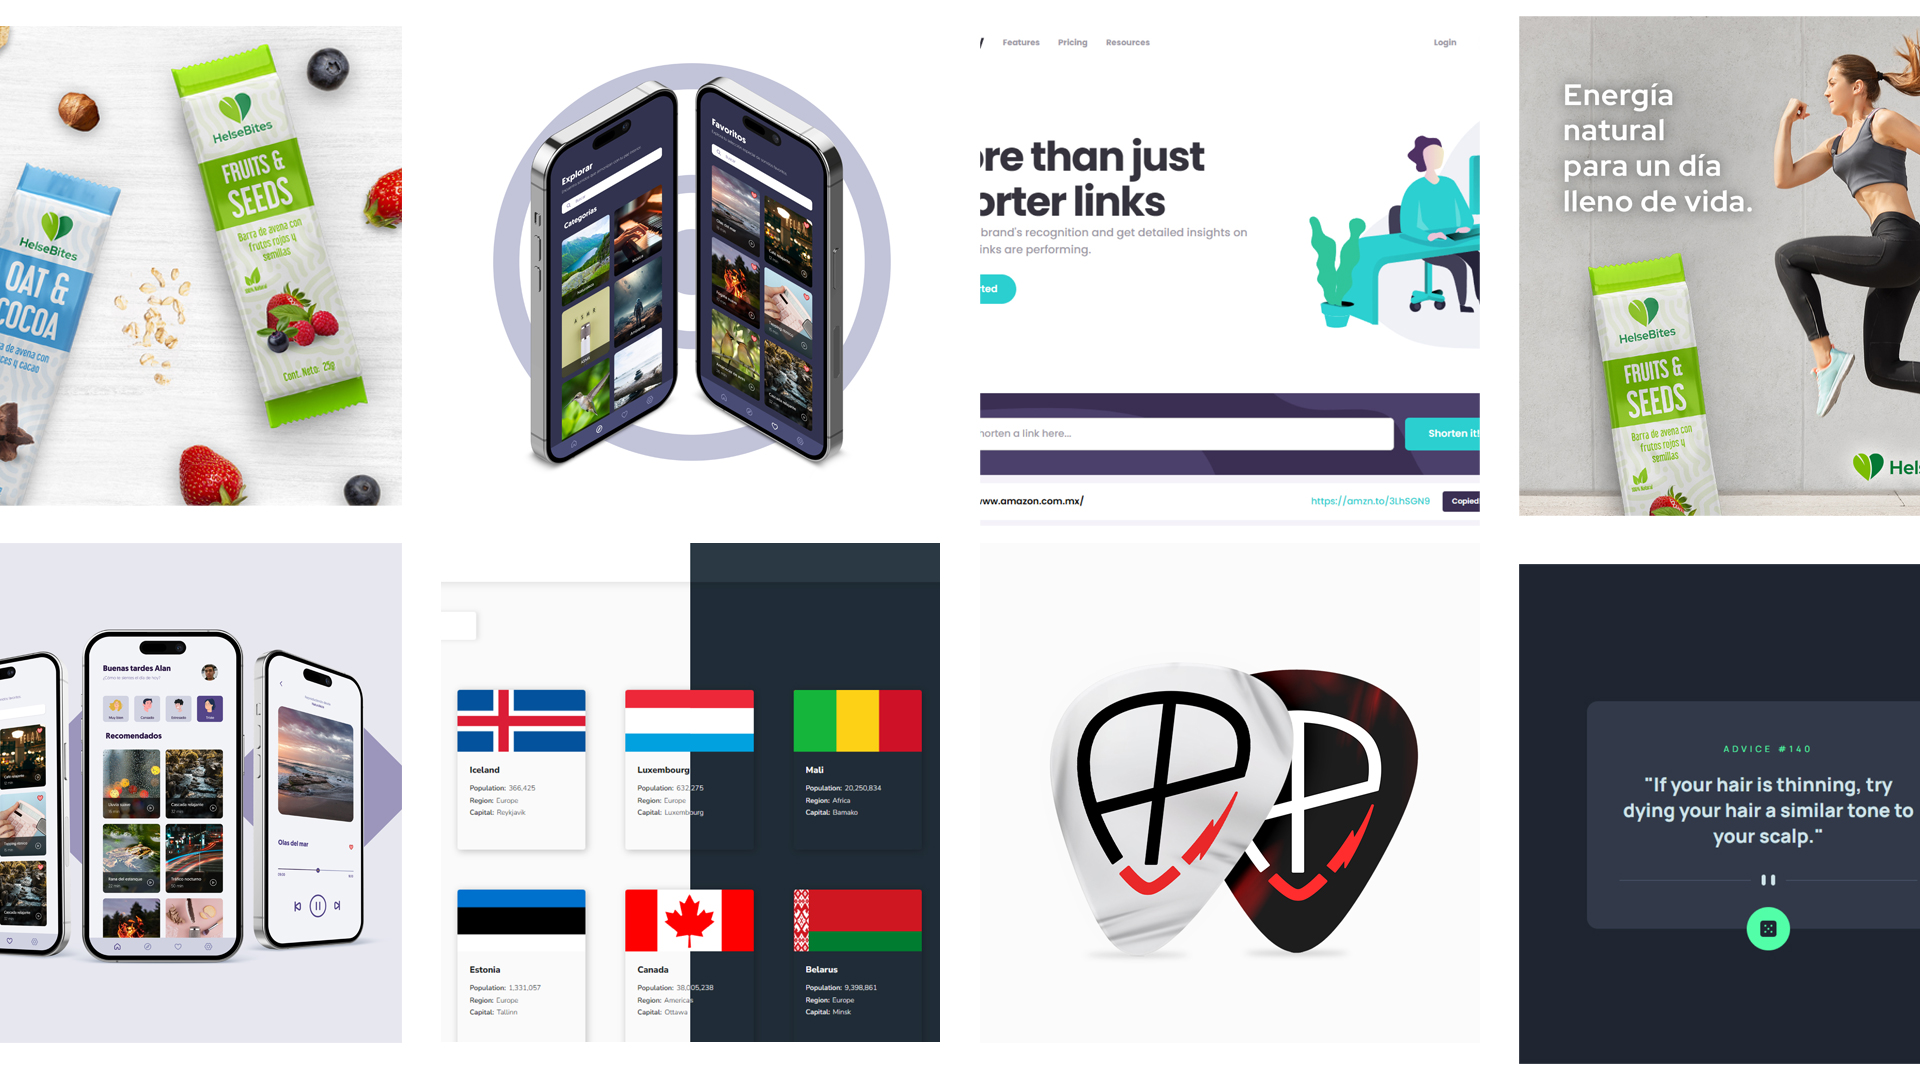
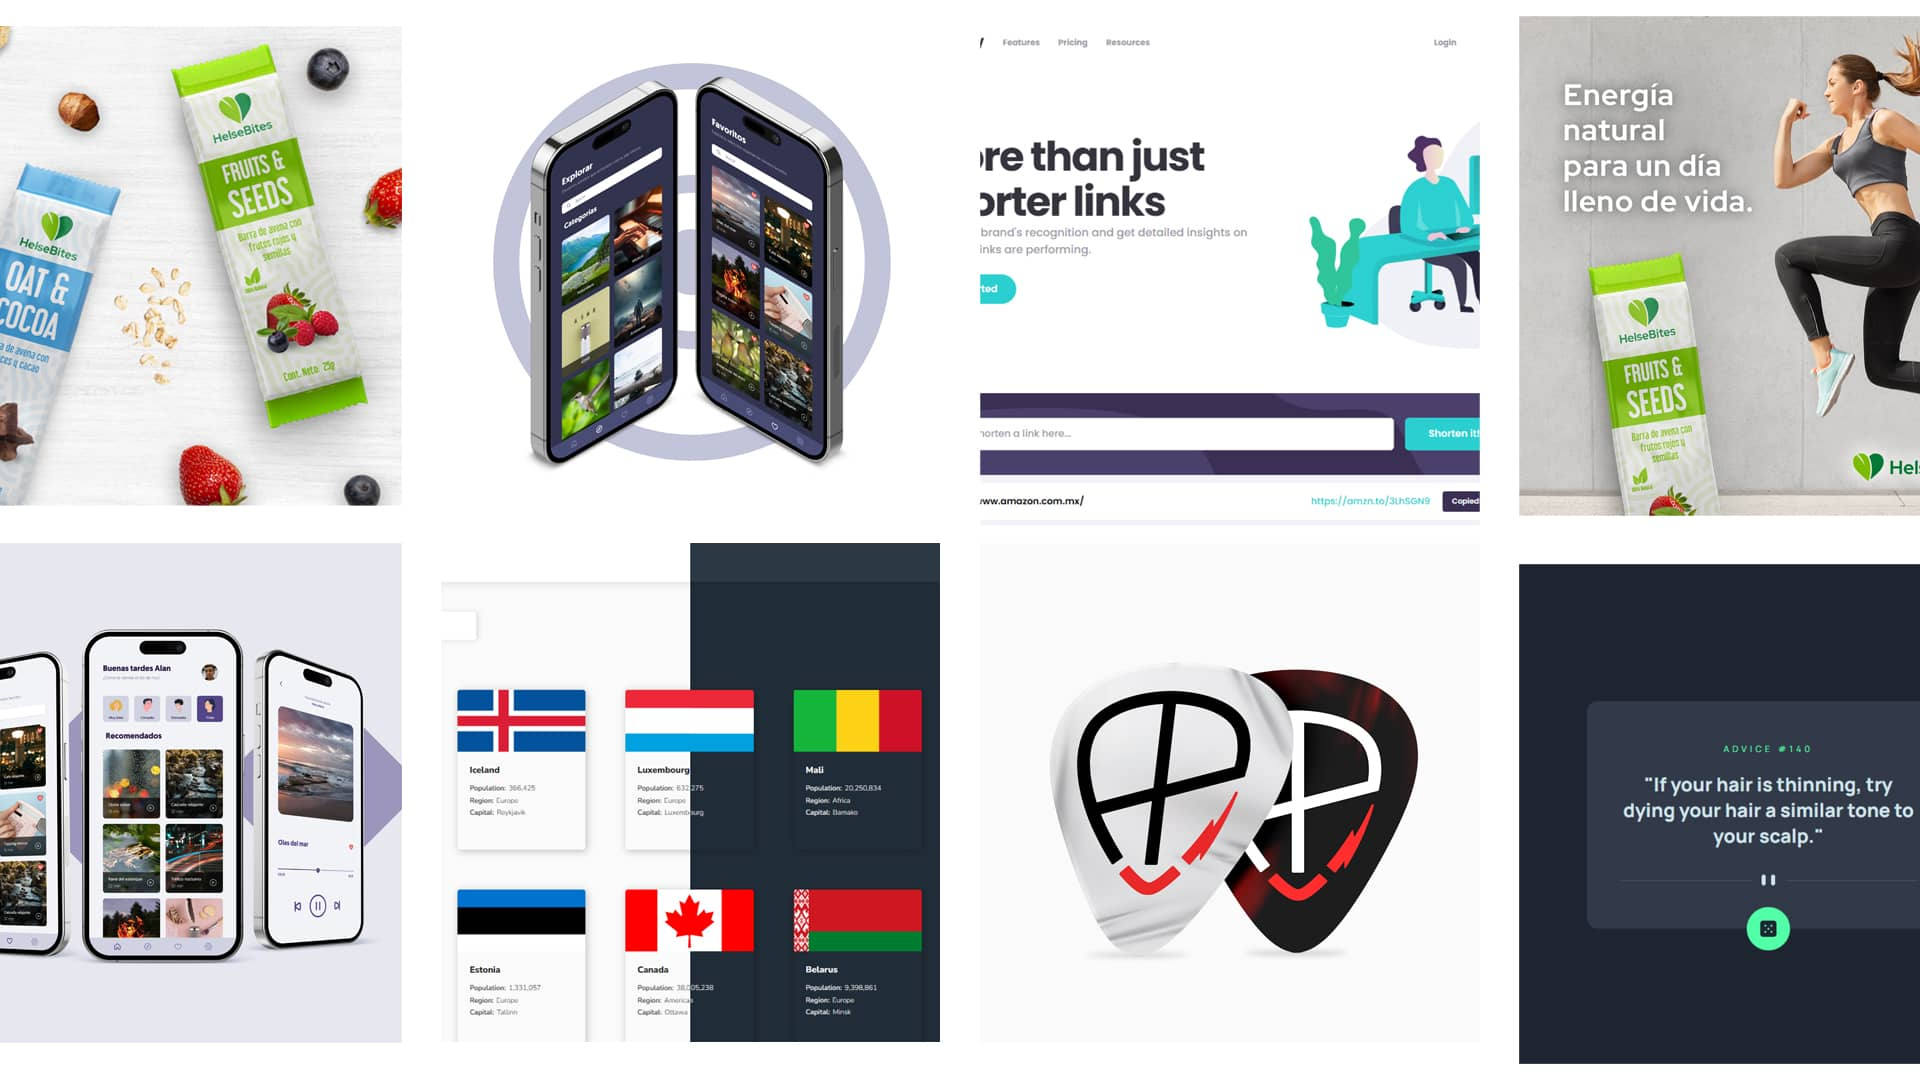
refactor: image optimization

diff --git a/src/components/Projects/Projects.tsx b/src/components/Projects/Projects.tsx
@@ -1,8 +1,8 @@
 import { ProjectCard } from '../ProjectCard/ProjectCard';
-import HelseBitesBrand from '../../assets/img/project-img/helsebites-project-cover.png';
-import DeepFeelsUI from '../../assets/img/project-img/deep-feels-ui-design-cover.png';
-import DeepFeelsBrand from '../../assets/img/project-img/deep-feels-app-cover.png';
-import RestCountries from '../../assets/img/project-img/countries-cover.png';
+import HelseBitesBrand from '../../assets/img/project-img/helsebites-project-cover.webp';
+import DeepFeelsUI from '../../assets/img/project-img/deep-feels-ui-design-cover.webp';
+import DeepFeelsBrand from '../../assets/img/project-img/deep-feels-app-cover.webp';
+import RestCountries from '../../assets/img/project-img/countries-cover.webp';
 import { ButtonLink } from '../ButtonLink/ButtonLink';
 import { Icon } from '../../assets/icons/Icon';
 import './ProjectsStyles.css';

diff --git a/src/components/Header/Header.tsx b/src/components/Header/Header.tsx
@@ -1,5 +1,5 @@
 import { CtaButton } from "../CtaButton/CtaButton"
-import AlanPhoto from '../../assets/img/ap-photos/portfolio-img-fondo.png';
+import AlanPhoto from '../../assets/img/ap-photos/portfolio-img-fondo.webp';
 import { ThemeContext } from "../../context/ThemeContext";
 import { useContext } from "react";
 import './HeaderStyles.css';
